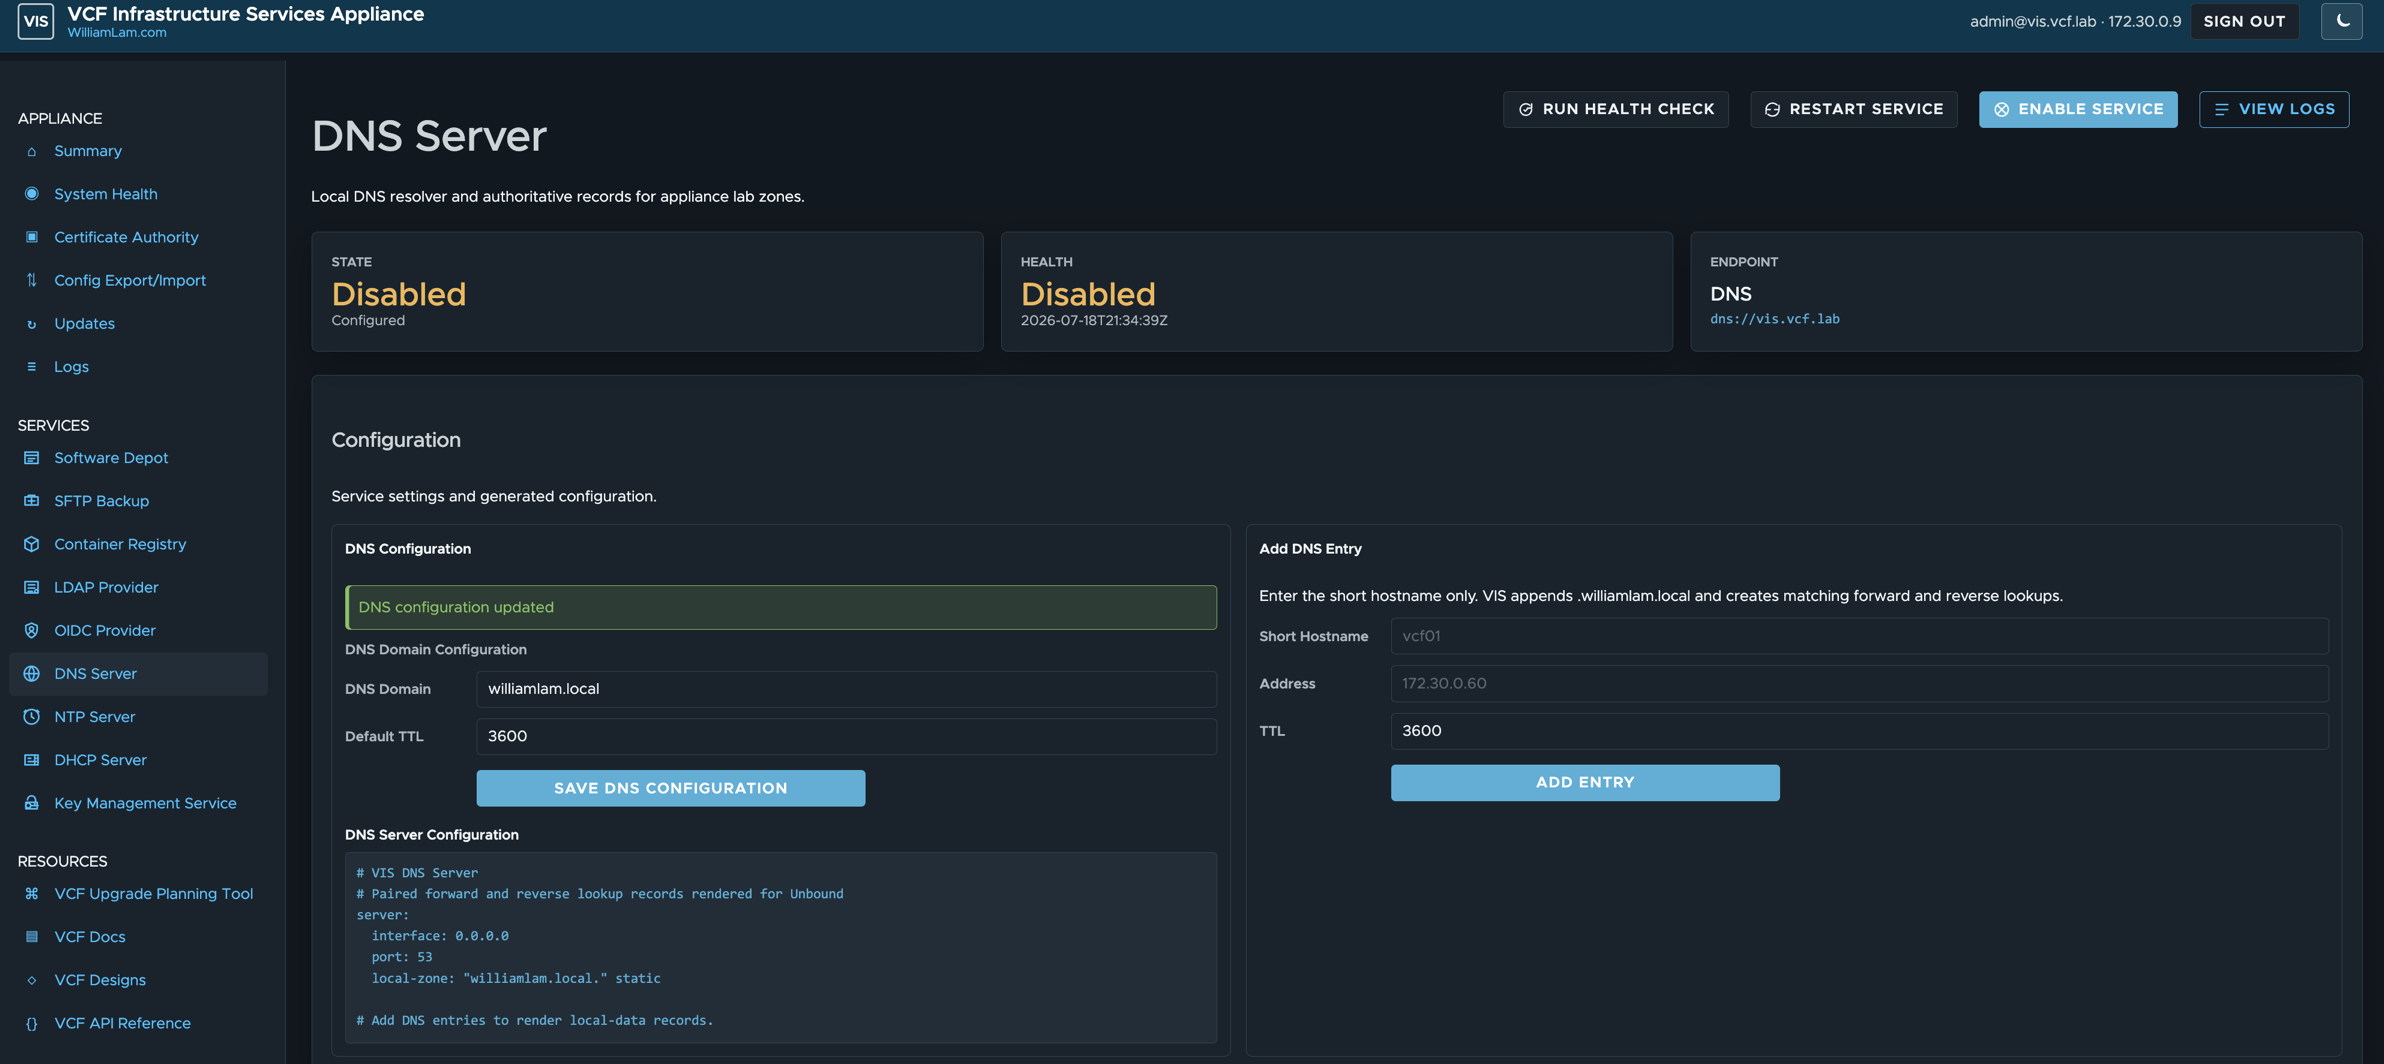
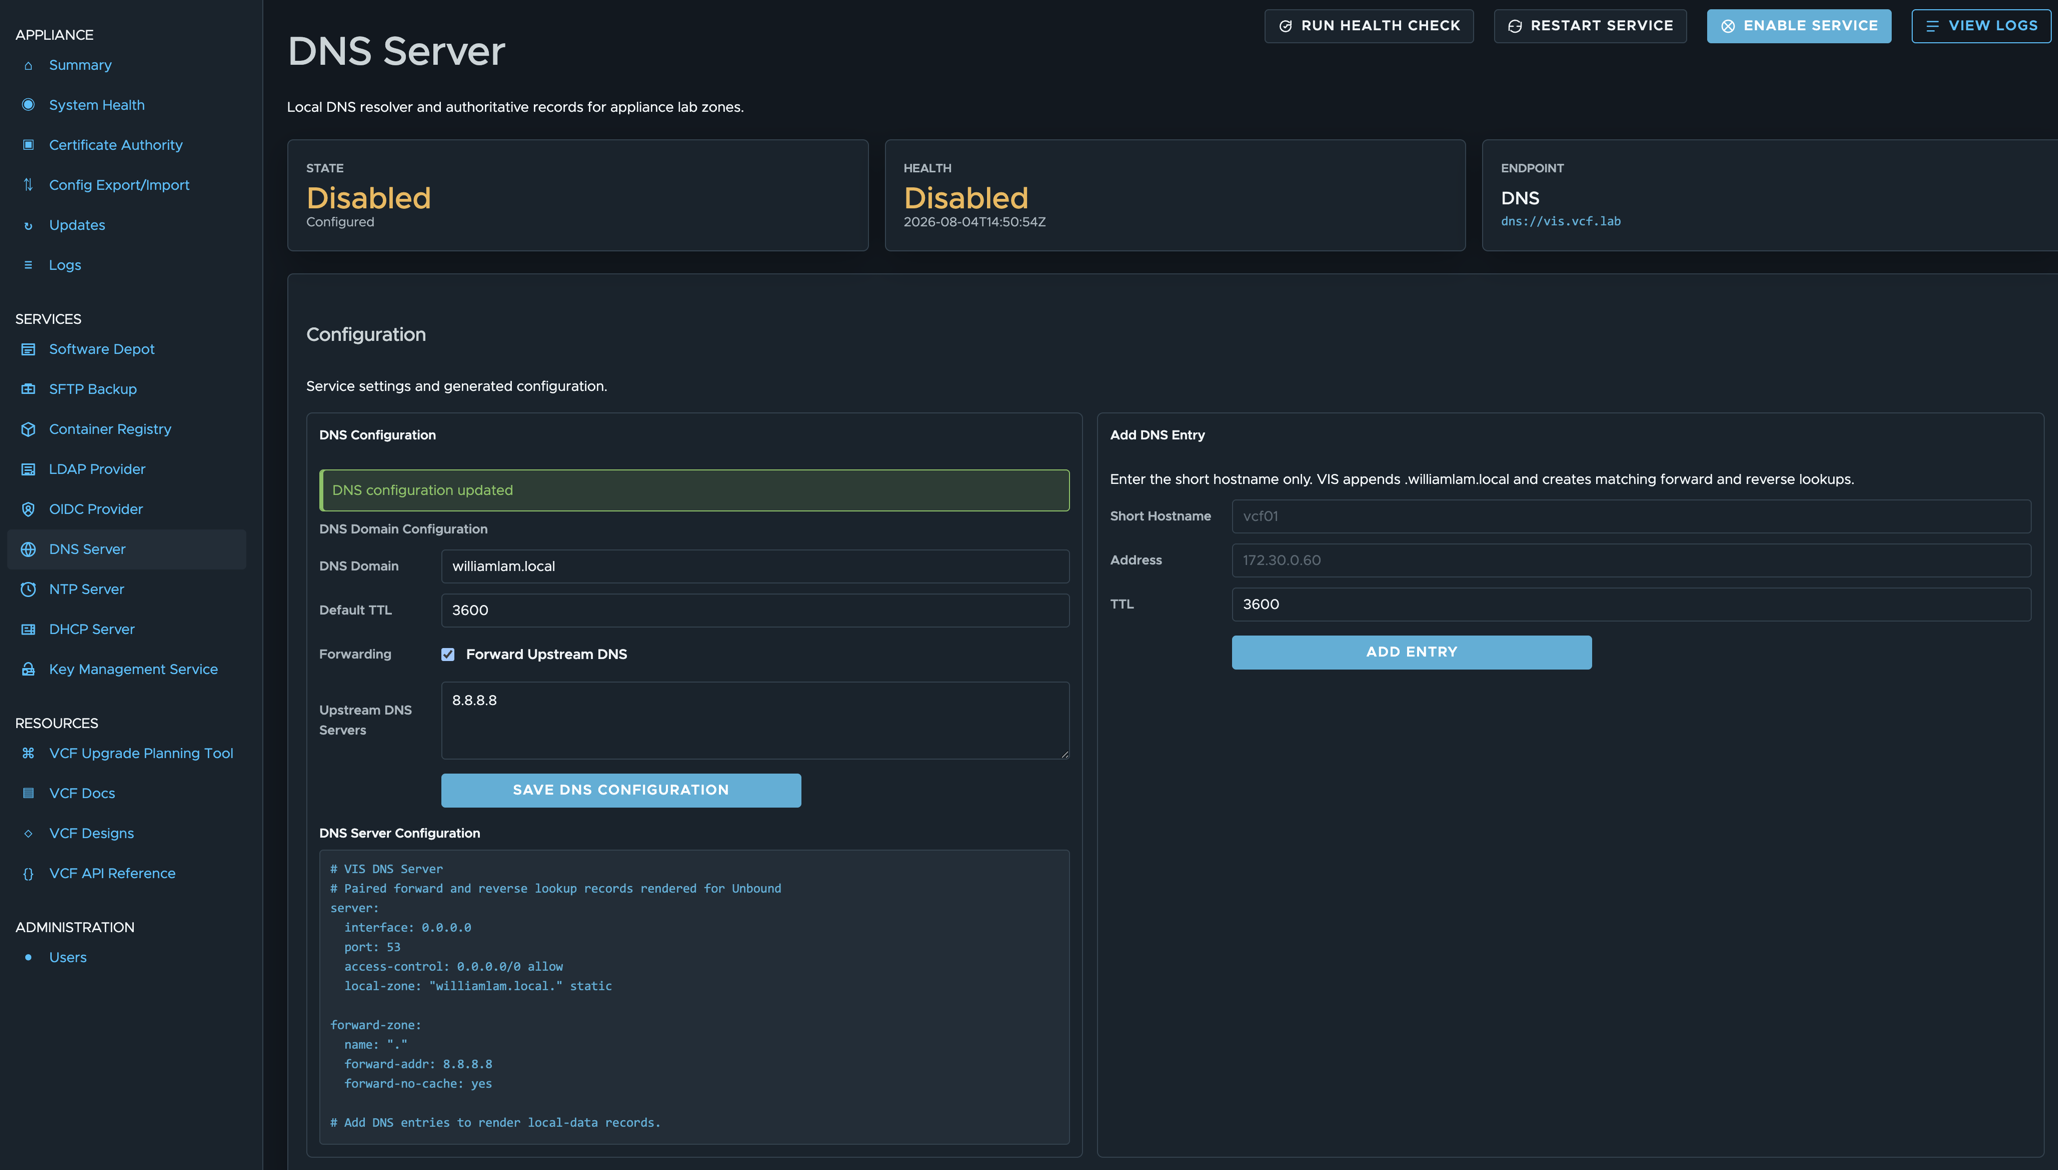
Update DNS service documentation (#18)

diff --git a/docs/usage.html b/docs/usage.html
@@ -203,6 +203,7 @@ echo &#x27;y&#x27; | /opt/vmware/vcf/operationsmanager/scripts/cli/sddcmanager_r
 <li>DNS Domain</li>
 </ul>
 <p>After saving your configuration to initialize and click Enable service.</p>
+<p>If you would like to forward to an upstream DNS Server, select <code>Forwarding</code> and enter the list of DNS Server(s)</p>
 <p><img src="images/vis-dns-init.png" alt="" /></p>
 <p>You can add and manage DNS using the admin panel</p>
 <p><img src="images/vis-dns-add.png" alt="" /></p>

diff --git a/docs/usage.md b/docs/usage.md
@@ -302,6 +302,8 @@ You should see a successful login, which confirms VCF SSO has been properly conf
 
 After saving your configuration to initialize and click Enable service.
 
+If you would like to forward to an upstream DNS Server, select `Forwarding` and enter the list of DNS Server(s)
+
 ![](images/vis-dns-init.png)
 
 You can add and manage DNS using the admin panel
